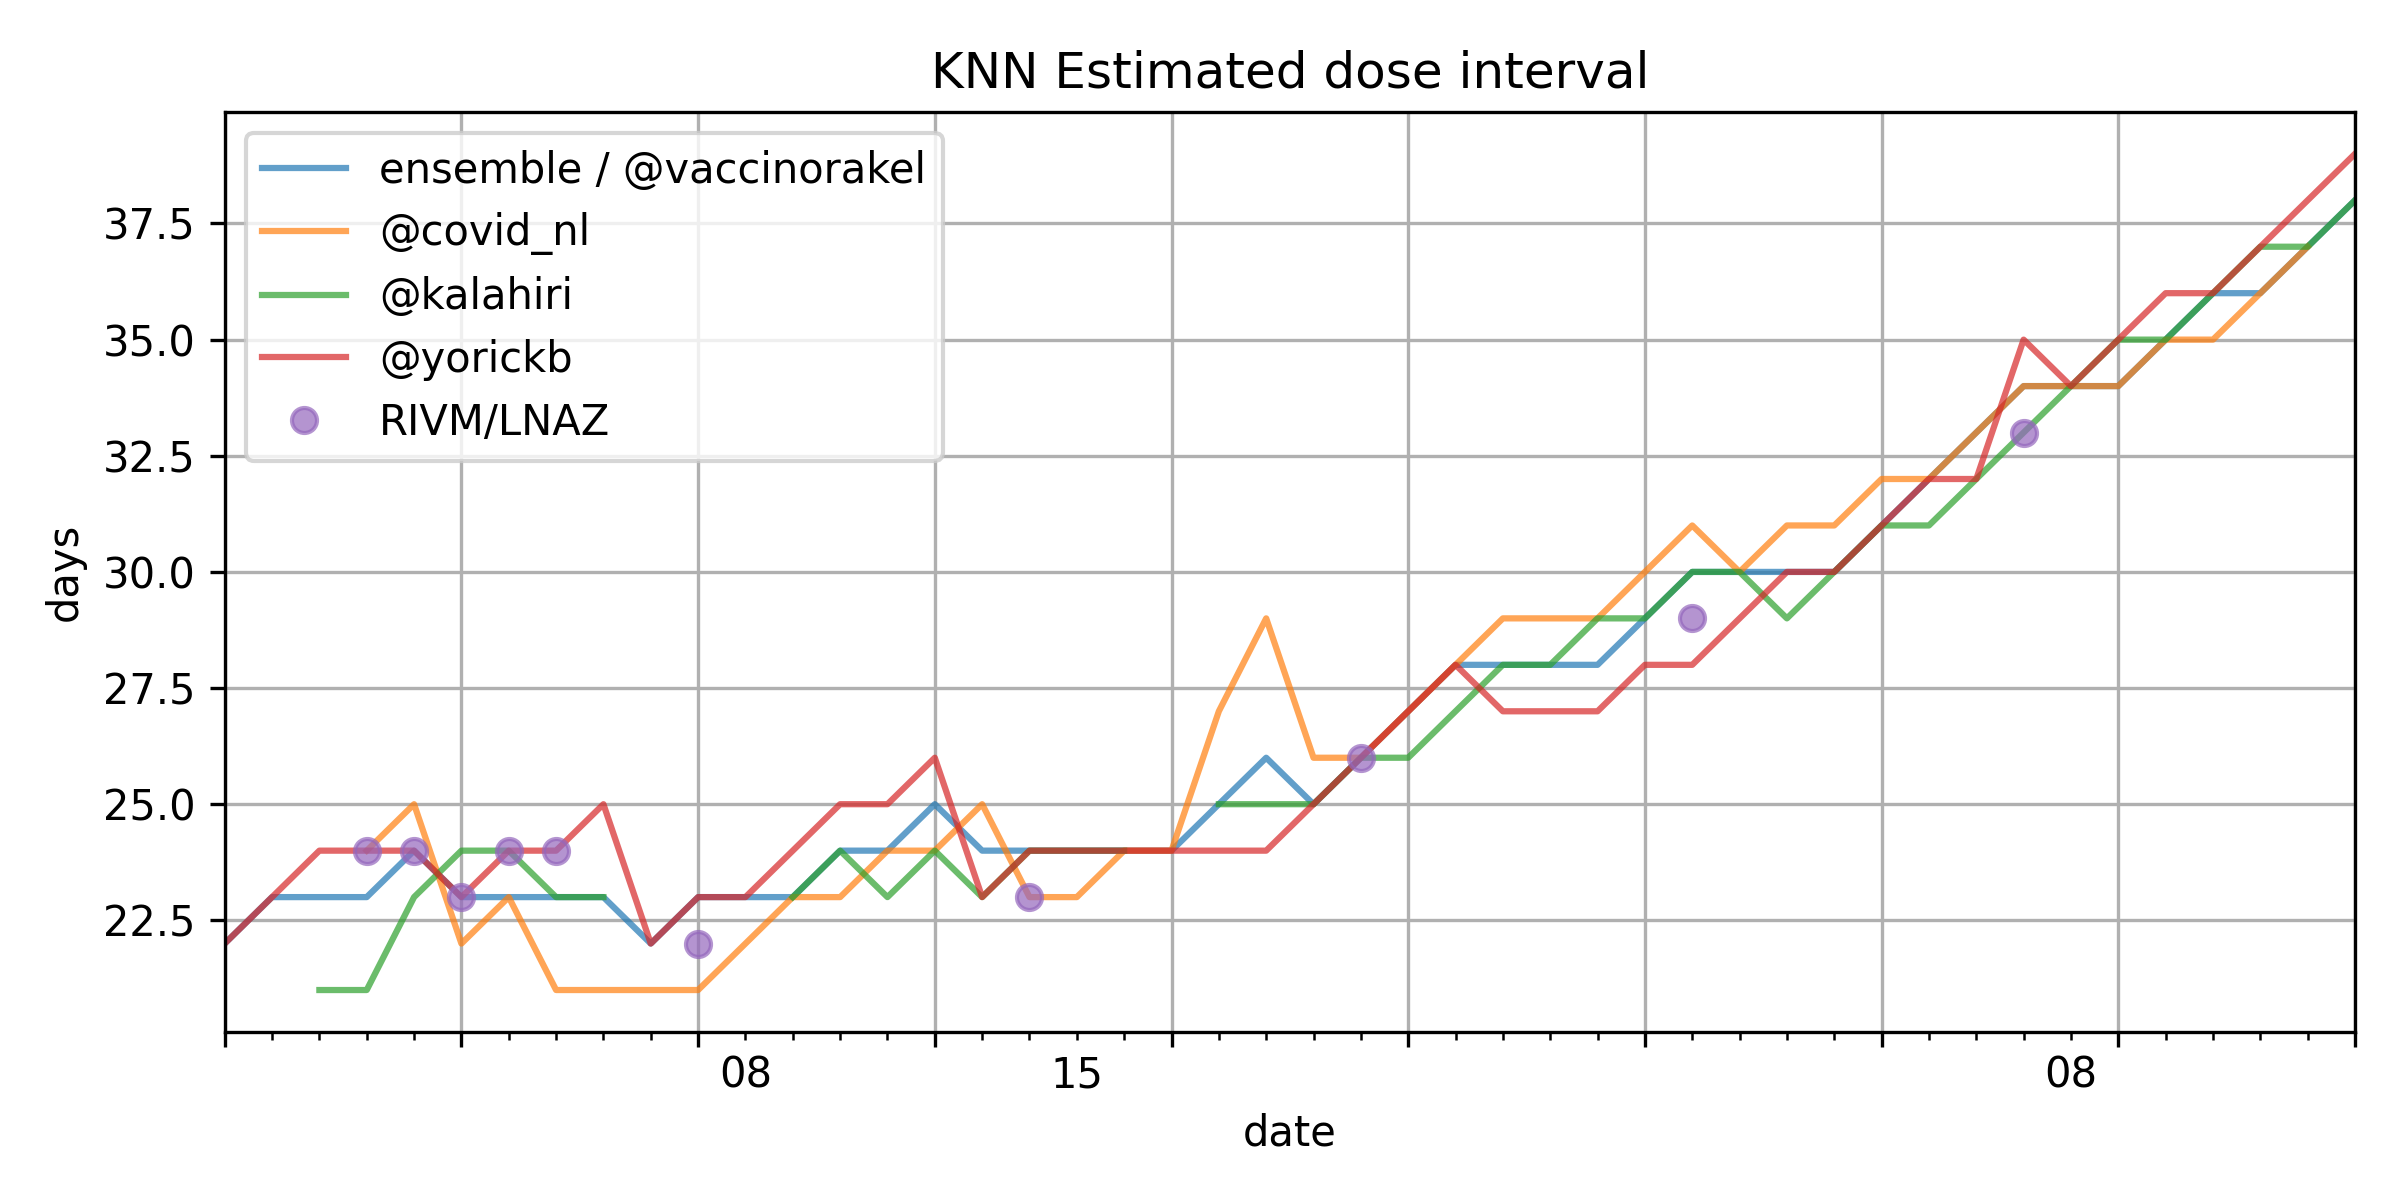
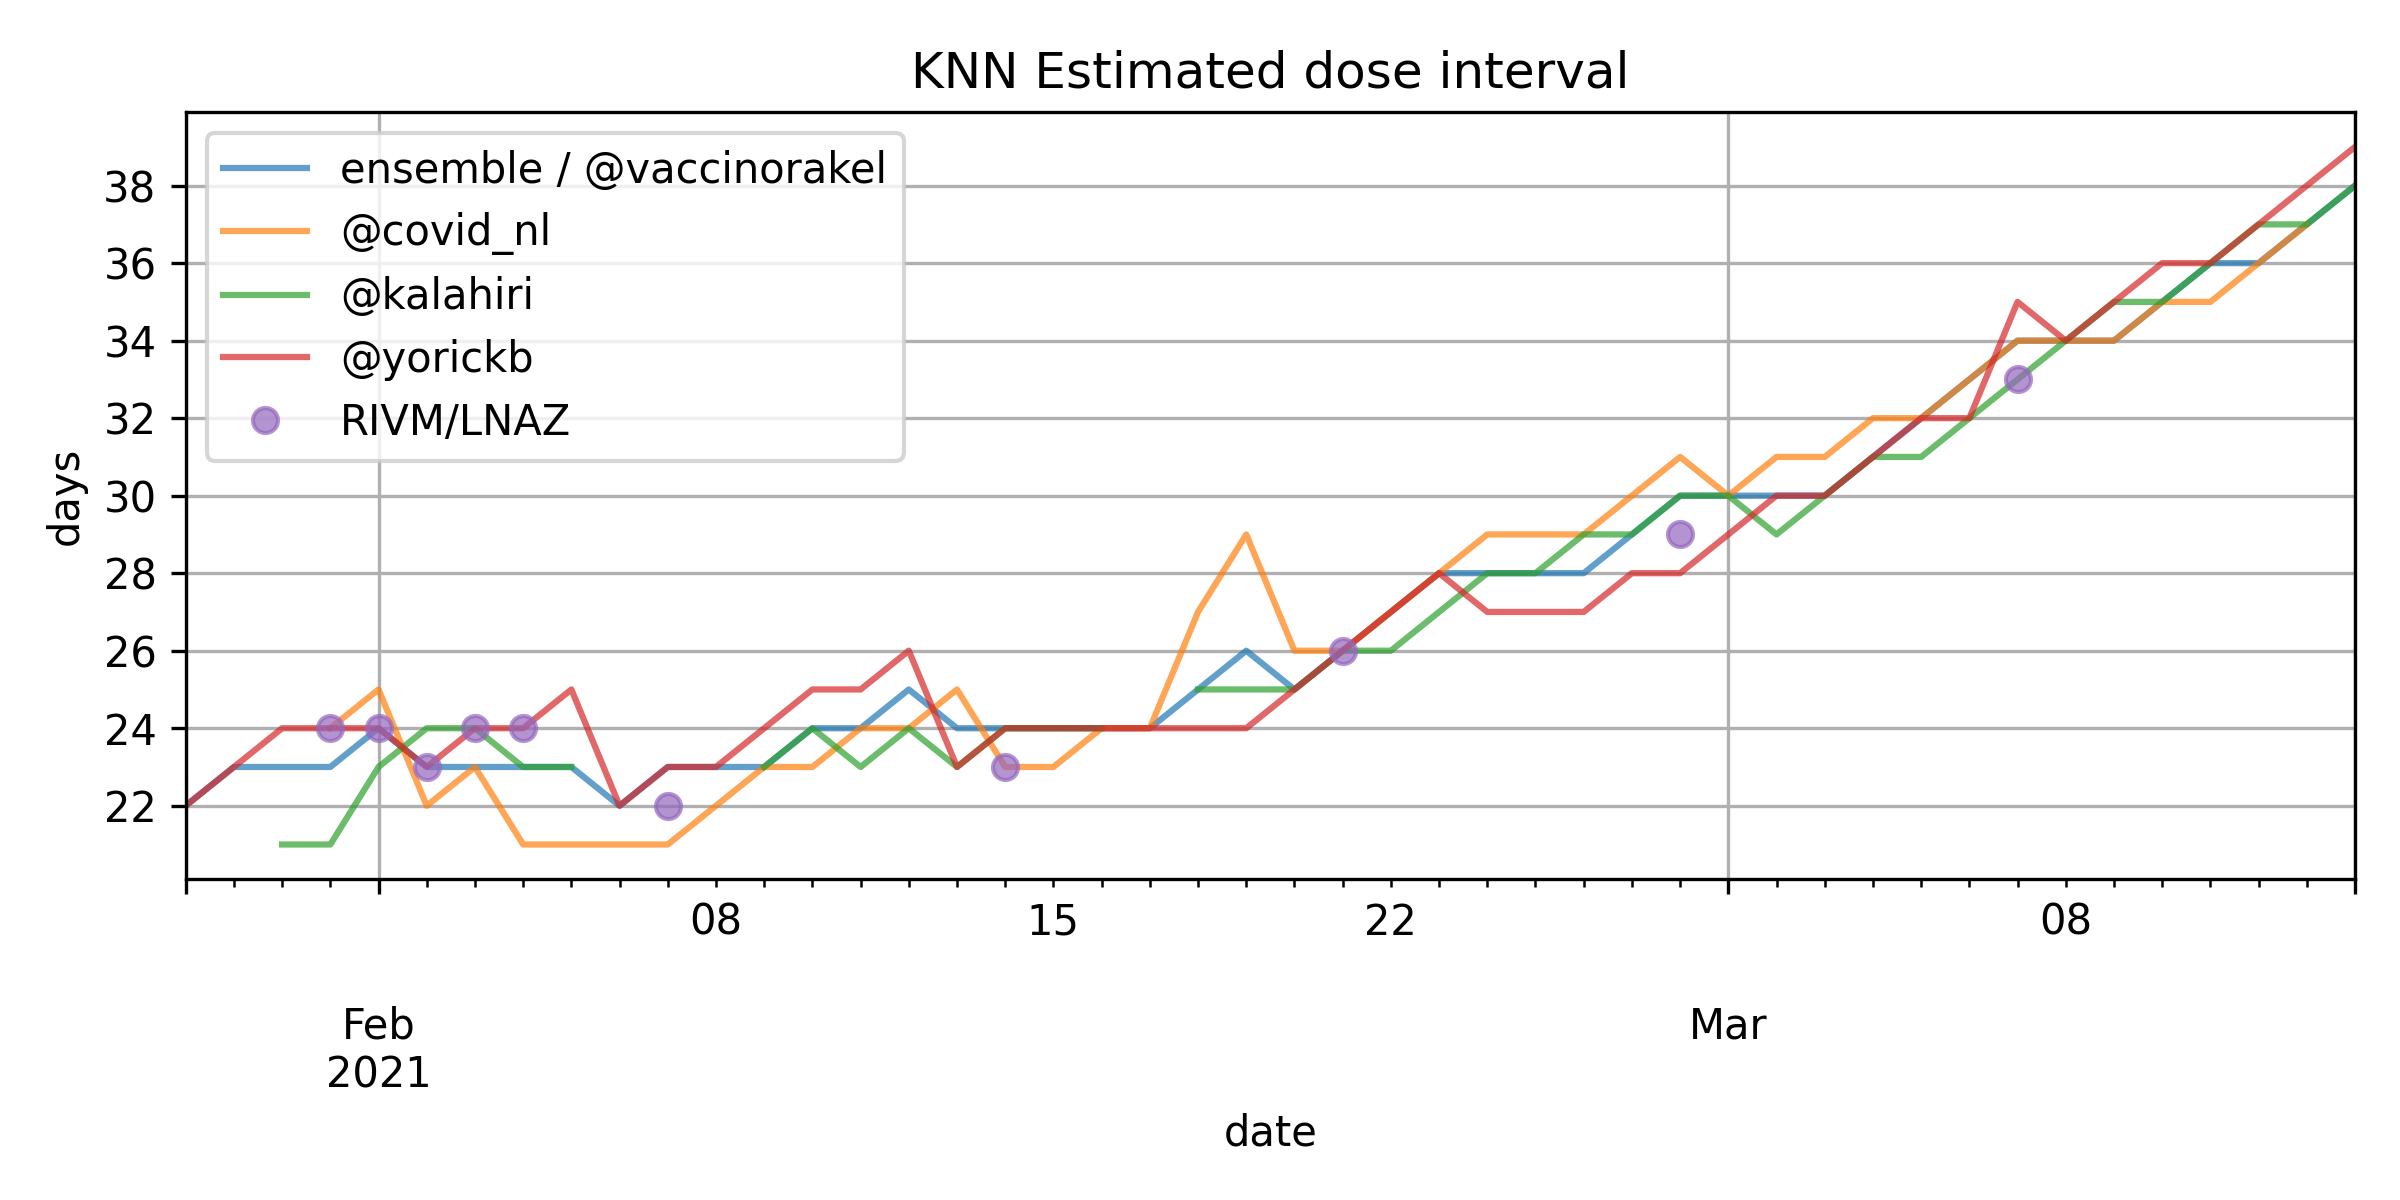
Minor bugfix to interval chart

diff --git a/src/estimate_dose_interval.py b/src/estimate_dose_interval.py
@@ -69,7 +69,7 @@ df_intervals.to_csv('data/estimated_dose_interval.csv')
 
 style = ['-'] * (df_intervals.columns.shape[0] - 1) + ['o']
 ax = df_intervals.plot(grid=True, style=style, figsize=(8,4), alpha=.7)
-ax.xaxis.set_major_locator(MaxNLocator(integer=True))
+ax.yaxis.set_major_locator(MaxNLocator(integer=True))
 ax.set_title('KNN Estimated dose interval')
 ax.set_ylabel('days')
 
